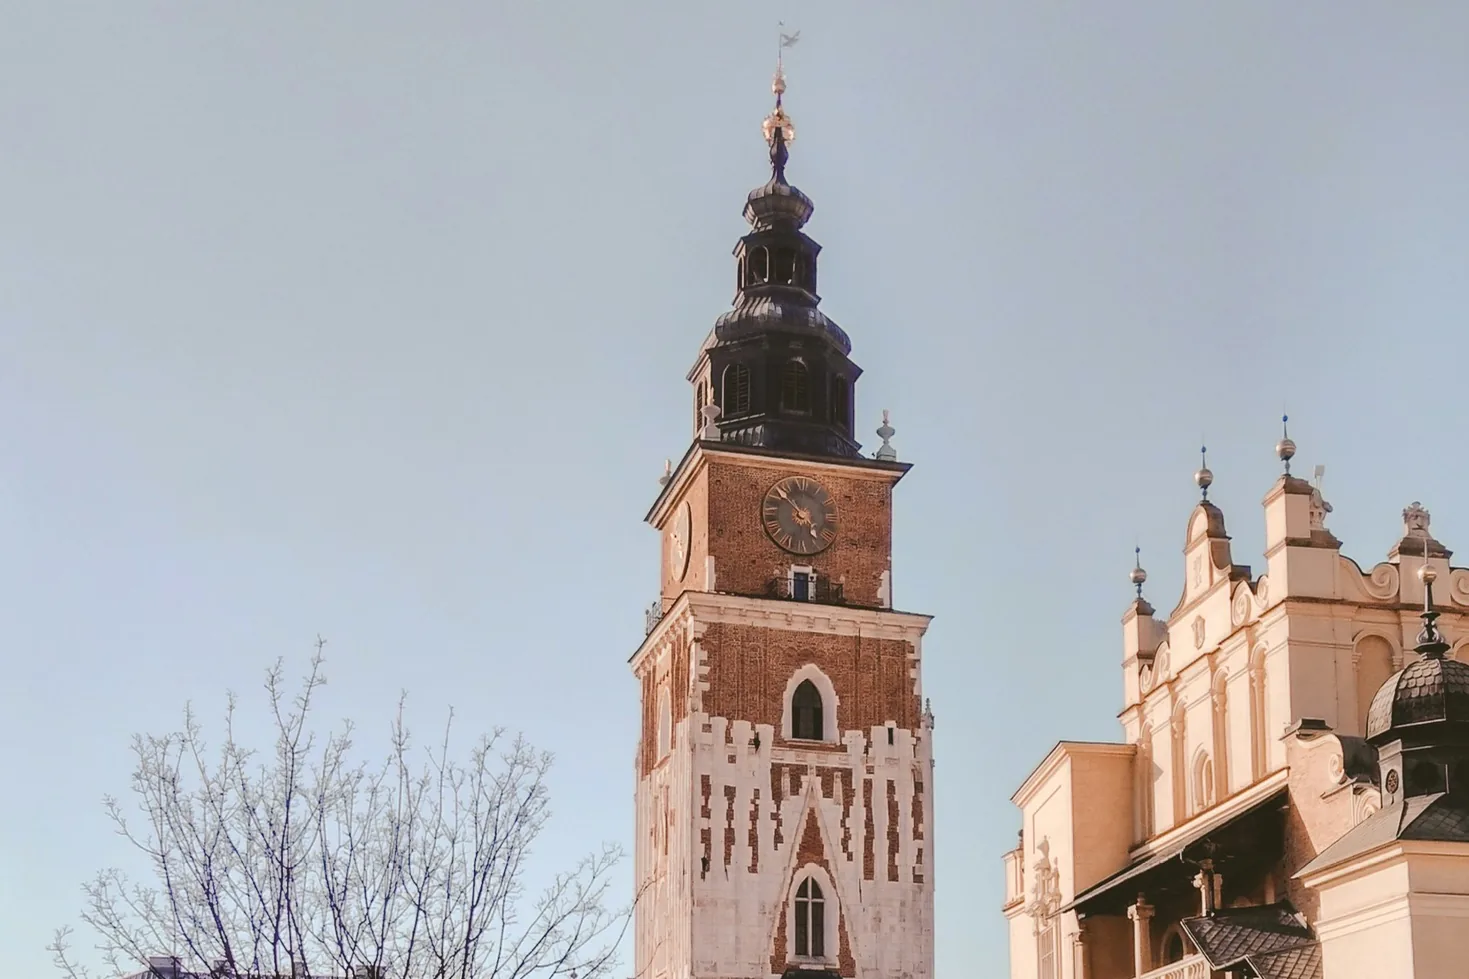
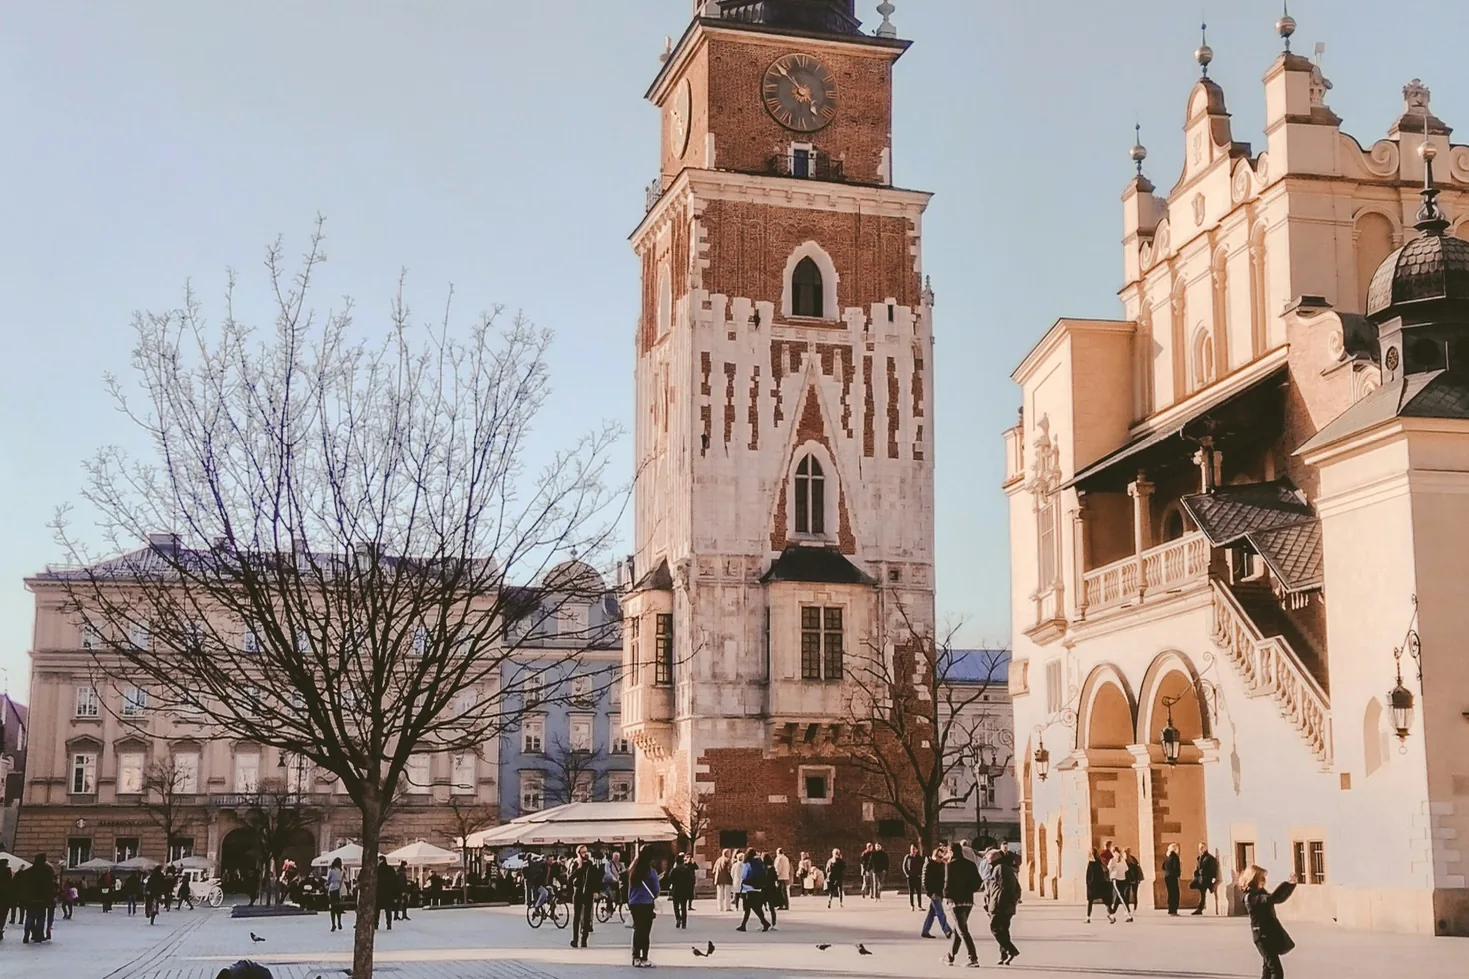
Add files via upload

diff --git a/css/style.css b/css/style.css
@@ -1,4 +1,4 @@
-/* wersja 34 */
+/* wersja 35 */
 /* =========================================================
    Kancelaria Adwokacka – adw. Agnieszka Mincer-Madejska
    Układ odwzorowany z projektu Figma (MacBook Pro 16": 1728 × 1117 px).
@@ -1601,4 +1601,30 @@ body { background: var(--tlo); color: var(--tekst); }
 @media (max-width: 1099px) {
   .kafel__przycisk { border-color: transparent; border-radius: 10px; box-shadow: 0 4px 20px rgba(0, 0, 0, 0.18); }
   .kafel__przycisk[aria-expanded="true"] { border-color: var(--braz); }
+}
+
+/* =====================================================================
+   v35
+   ===================================================================== */
+/* zdjęcie 1: wyższy kadr (tytuł na jasnej części wieży) i płynne przejście w zdjęcie 2:
+   Rynek gaśnie w tym samym pasie (890–1250 px), w którym pojawia się zdjęcie 2 */
+.tlo--rynek {
+  height: calc(1250 * var(--u));
+  -webkit-mask-image: linear-gradient(to bottom, #000 calc(100% - 360 * var(--u)), transparent 100%);
+          mask-image: linear-gradient(to bottom, #000 calc(100% - 360 * var(--u)), transparent 100%);
+}
+/* bez brązowych obrysów przycisków */
+.przycisk { border: 0; }
+.kafel__przycisk[aria-expanded="true"] { border-color: transparent; }
+/* kafle usług: tymczasowo przesłane zdjęcia (jak na kaflach bloga) */
+.kafel__przycisk { background-size: cover; background-position: center; -webkit-backdrop-filter: none; backdrop-filter: none; }
+.kafel:nth-child(3n+1) .kafel__przycisk { background-image: linear-gradient(to bottom, rgba(238,231,220,0) 35%, rgba(238,231,220,.85) 100%), url("../img/zdjecie-1-rynek.webp"); }
+.kafel:nth-child(3n+2) .kafel__przycisk { background-image: linear-gradient(to bottom, rgba(238,231,220,0) 35%, rgba(238,231,220,.85) 100%), url("../img/blog-waga.webp"); }
+.kafel:nth-child(3n)   .kafel__przycisk { background-image: linear-gradient(to bottom, rgba(238,231,220,0) 35%, rgba(238,231,220,.85) 100%), url("../img/zdjecie-3-dachy.webp"); }
+.kafel__przycisk:hover, .kafel__przycisk[aria-expanded="true"] { background-color: transparent; }
+.kafel__przycisk:hover { filter: brightness(1.04); }
+/* otwarte okienko usługi nad danymi kontaktowymi w prawym dolnym rogu */
+html.opis-otwarty main { z-index: 6; }
+@media (max-width: 1099px) {
+  .kafel__przycisk[aria-expanded="true"] { border-color: transparent; }
 }

diff --git a/js/main.js b/js/main.js
@@ -1,4 +1,4 @@
-/* wersja 33 */
+/* wersja 35 */
 /* =========================================================
    Kancelaria Adwokacka – skrypty strony
    1. Dane kontaktowe i gradient przy przewijaniu
@@ -40,13 +40,7 @@
     const gora3 = strona3.getBoundingClientRect().top;
     let k = ogranicz((gora3 - vh * 0.65) / (vh * 0.3));
     const g = ogranicz((gora3 - vh * 0.4) / (vh * 0.6));
-    // otwarte okienko usługi chowa dane kontaktowe tylko wtedy, gdy faktycznie na nie nachodzi
-    const okno = document.querySelector(".opis.otwarty");
-    if (okno && k > 0) {
-      const a = okno.getBoundingClientRect(), c = blokKontaktu.getBoundingClientRect();
-      if (a.left < c.right && a.right > c.left && a.top < c.bottom && a.bottom > c.top) k = 0;
-    }
-    const gradientKrycie = k === 0 && okno ? 0 : g;   // przy otwartym okienku w rogu chowamy też gradient z rozmyciem
+    const gradientKrycie = g;   // okienko usługi leży teraz nad danymi kontaktowymi – nic nie chowamy
     // krycie ustawiane wprost na elemencie (pewniejsze w Safari na iPadzie niż zmienne CSS)
     blokKontaktu.style.opacity = k.toFixed(3);
     blokKontaktu.style.visibility = k > 0.01 ? "visible" : "hidden";

diff --git a/en/blog/index.html b/en/blog/index.html
@@ -29,8 +29,8 @@
   <meta name="description" content="Blog of the Law Office of advocate Agnieszka Mincer-Madejska in Kraków: legitime, wills, inheritance, separation of property, acquisitive prescription, division of real property.">
   <link rel="preload" href="../../fonts/newsreader-latin-opsz-normal.woff2" as="font" type="font/woff2" crossorigin>
   <link rel="preload" href="../../fonts/inter-latin-wght-normal.woff2" as="font" type="font/woff2" crossorigin>
-  <link rel="stylesheet" href="../../css/style.css?v=34">
-  <script src="../../js/start.js?v=34"></script>
+  <link rel="stylesheet" href="../../css/style.css?v=35">
+  <script src="../../js/start.js?v=35"></script>
   <script type="application/ld+json">
 {
  "@context": "https://schema.org",
@@ -374,6 +374,6 @@
     <p class="linia">All rights reserved © <span class="rok">2026</span> Law Office of Advocate Agnieszka <span class="bez-lamania">Mincer-Madejska</span></p>
   </footer>
 
-  <script src="../../js/blog.js?v=34"></script>
+  <script src="../../js/blog.js?v=35"></script>
 </body>
 </html>

diff --git a/en/blog/jak-napisac-testament.html b/en/blog/jak-napisac-testament.html
@@ -29,8 +29,8 @@
   <meta name="description" content="A will is not just a formality – it is a conscious way of putting your affairs in order and giving your loved ones peace of mind after your death. Whether ">
   <link rel="preload" href="../../fonts/newsreader-latin-opsz-normal.woff2" as="font" type="font/woff2" crossorigin>
   <link rel="preload" href="../../fonts/inter-latin-wght-normal.woff2" as="font" type="font/woff2" crossorigin>
-  <link rel="stylesheet" href="../../css/style.css?v=34">
-  <script src="../../js/start.js?v=34"></script>
+  <link rel="stylesheet" href="../../css/style.css?v=35">
+  <script src="../../js/start.js?v=35"></script>
   <script type="application/ld+json">
 {
  "@context": "https://schema.org",
@@ -384,6 +384,6 @@
     <p class="linia">All rights reserved © <span class="rok">2026</span> Law Office of Advocate Agnieszka <span class="bez-lamania">Mincer-Madejska</span></p>
   </footer>
 
-  <script src="../../js/blog.js?v=34"></script>
+  <script src="../../js/blog.js?v=35"></script>
 </body>
 </html>

diff --git a/en/blog/testament-w-polskim-prawie.html b/en/blog/testament-w-polskim-prawie.html
@@ -29,8 +29,8 @@
   <meta name="description" content="Making a will is one of the most important legal acts, allowing inheritance matters to be arranged according to the testator’s wishes. Polish law provides ">
   <link rel="preload" href="../../fonts/newsreader-latin-opsz-normal.woff2" as="font" type="font/woff2" crossorigin>
   <link rel="preload" href="../../fonts/inter-latin-wght-normal.woff2" as="font" type="font/woff2" crossorigin>
-  <link rel="stylesheet" href="../../css/style.css?v=34">
-  <script src="../../js/start.js?v=34"></script>
+  <link rel="stylesheet" href="../../css/style.css?v=35">
+  <script src="../../js/start.js?v=35"></script>
   <script type="application/ld+json">
 {
  "@context": "https://schema.org",
@@ -384,6 +384,6 @@
     <p class="linia">All rights reserved © <span class="rok">2026</span> Law Office of Advocate Agnieszka <span class="bez-lamania">Mincer-Madejska</span></p>
   </footer>
 
-  <script src="../../js/blog.js?v=34"></script>
+  <script src="../../js/blog.js?v=35"></script>
 </body>
 </html>

diff --git a/en/blog/nabycie-spadku.html b/en/blog/nabycie-spadku.html
@@ -29,8 +29,8 @@
   <meta name="description" content="Acquiring an inheritance after the death of a family member is a process that may seem complicated, especially for people dealing with inheritance matters ">
   <link rel="preload" href="../../fonts/newsreader-latin-opsz-normal.woff2" as="font" type="font/woff2" crossorigin>
   <link rel="preload" href="../../fonts/inter-latin-wght-normal.woff2" as="font" type="font/woff2" crossorigin>
-  <link rel="stylesheet" href="../../css/style.css?v=34">
-  <script src="../../js/start.js?v=34"></script>
+  <link rel="stylesheet" href="../../css/style.css?v=35">
+  <script src="../../js/start.js?v=35"></script>
   <script type="application/ld+json">
 {
  "@context": "https://schema.org",
@@ -381,6 +381,6 @@
     <p class="linia">All rights reserved © <span class="rok">2026</span> Law Office of Advocate Agnieszka <span class="bez-lamania">Mincer-Madejska</span></p>
   </footer>
 
-  <script src="../../js/blog.js?v=34"></script>
+  <script src="../../js/blog.js?v=35"></script>
 </body>
 </html>

diff --git a/en/blog/podzial-nieruchomosci-po-spadku-lub-rozwodzie.html b/en/blog/podzial-nieruchomosci-po-spadku-lub-rozwodzie.html
@@ -29,8 +29,8 @@
   <meta name="description" content="Dividing real property after it has been inherited by several people or after a divorce is a common problem faced by law office clients. Choosing the right">
   <link rel="preload" href="../../fonts/newsreader-latin-opsz-normal.woff2" as="font" type="font/woff2" crossorigin>
   <link rel="preload" href="../../fonts/inter-latin-wght-normal.woff2" as="font" type="font/woff2" crossorigin>
-  <link rel="stylesheet" href="../../css/style.css?v=34">
-  <script src="../../js/start.js?v=34"></script>
+  <link rel="stylesheet" href="../../css/style.css?v=35">
+  <script src="../../js/start.js?v=35"></script>
   <script type="application/ld+json">
 {
  "@context": "https://schema.org",
@@ -410,6 +410,6 @@
     <p class="linia">All rights reserved © <span class="rok">2026</span> Law Office of Advocate Agnieszka <span class="bez-lamania">Mincer-Madejska</span></p>
   </footer>
 
-  <script src="../../js/blog.js?v=34"></script>
+  <script src="../../js/blog.js?v=35"></script>
 </body>
 </html>

diff --git a/en/blog/rozdzielnosc-majatkowa.html b/en/blog/rozdzielnosc-majatkowa.html
@@ -29,8 +29,8 @@
   <meta name="description" content="Separation of property is a legal mechanism that allows spouses to keep their personal assets separate. It can be used before marriage, during the marriage">
   <link rel="preload" href="../../fonts/newsreader-latin-opsz-normal.woff2" as="font" type="font/woff2" crossorigin>
   <link rel="preload" href="../../fonts/inter-latin-wght-normal.woff2" as="font" type="font/woff2" crossorigin>
-  <link rel="stylesheet" href="../../css/style.css?v=34">
-  <script src="../../js/start.js?v=34"></script>
+  <link rel="stylesheet" href="../../css/style.css?v=35">
+  <script src="../../js/start.js?v=35"></script>
   <script type="application/ld+json">
 {
  "@context": "https://schema.org",
@@ -380,6 +380,6 @@
     <p class="linia">All rights reserved © <span class="rok">2026</span> Law Office of Advocate Agnieszka <span class="bez-lamania">Mincer-Madejska</span></p>
   </footer>
 
-  <script src="../../js/blog.js?v=34"></script>
+  <script src="../../js/blog.js?v=35"></script>
 </body>
 </html>

diff --git a/en/blog/sprawy-spadkowe-na-biezaco.html b/en/blog/sprawy-spadkowe-na-biezaco.html
@@ -29,8 +29,8 @@
   <meta name="description" content="The death of a loved one is undoubtedly a difficult time, full of emotions and challenges. Apart from grief, there are also legal issues that can be compli">
   <link rel="preload" href="../../fonts/newsreader-latin-opsz-normal.woff2" as="font" type="font/woff2" crossorigin>
   <link rel="preload" href="../../fonts/inter-latin-wght-normal.woff2" as="font" type="font/woff2" crossorigin>
-  <link rel="stylesheet" href="../../css/style.css?v=34">
-  <script src="../../js/start.js?v=34"></script>
+  <link rel="stylesheet" href="../../css/style.css?v=35">
+  <script src="../../js/start.js?v=35"></script>
   <script type="application/ld+json">
 {
  "@context": "https://schema.org",
@@ -362,6 +362,6 @@
     <p class="linia">All rights reserved © <span class="rok">2026</span> Law Office of Advocate Agnieszka <span class="bez-lamania">Mincer-Madejska</span></p>
   </footer>
 
-  <script src="../../js/blog.js?v=34"></script>
+  <script src="../../js/blog.js?v=35"></script>
 </body>
 </html>

diff --git a/en/blog/zachowek-kiedy-przysluguje.html b/en/blog/zachowek-kiedy-przysluguje.html
@@ -29,8 +29,8 @@
   <meta name="description" content="This post continues our earlier article on the legitime (zachowek) , in which we explained who is, as a rule, entitled to this claim and how it is calculat">
   <link rel="preload" href="../../fonts/newsreader-latin-opsz-normal.woff2" as="font" type="font/woff2" crossorigin>
   <link rel="preload" href="../../fonts/inter-latin-wght-normal.woff2" as="font" type="font/woff2" crossorigin>
-  <link rel="stylesheet" href="../../css/style.css?v=34">
-  <script src="../../js/start.js?v=34"></script>
+  <link rel="stylesheet" href="../../css/style.css?v=35">
+  <script src="../../js/start.js?v=35"></script>
   <script type="application/ld+json">
 {
  "@context": "https://schema.org",
@@ -410,6 +410,6 @@
     <p class="linia">All rights reserved © <span class="rok">2026</span> Law Office of Advocate Agnieszka <span class="bez-lamania">Mincer-Madejska</span></p>
   </footer>
 
-  <script src="../../js/blog.js?v=34"></script>
+  <script src="../../js/blog.js?v=35"></script>
 </body>
 </html>

diff --git a/en/blog/zasiedzenie-nieruchomosci.html b/en/blog/zasiedzenie-nieruchomosci.html
@@ -29,8 +29,8 @@
   <meta name="description" content="Acquisitive prescription (zasiedzenie) is a civil law mechanism that makes it possible to acquire ownership of real property, or a share in it, once certai">
   <link rel="preload" href="../../fonts/newsreader-latin-opsz-normal.woff2" as="font" type="font/woff2" crossorigin>
   <link rel="preload" href="../../fonts/inter-latin-wght-normal.woff2" as="font" type="font/woff2" crossorigin>
-  <link rel="stylesheet" href="../../css/style.css?v=34">
-  <script src="../../js/start.js?v=34"></script>
+  <link rel="stylesheet" href="../../css/style.css?v=35">
+  <script src="../../js/start.js?v=35"></script>
   <script type="application/ld+json">
 {
  "@context": "https://schema.org",
@@ -405,6 +405,6 @@
     <p class="linia">All rights reserved © <span class="rok">2026</span> Law Office of Advocate Agnieszka <span class="bez-lamania">Mincer-Madejska</span></p>
   </footer>
 
-  <script src="../../js/blog.js?v=34"></script>
+  <script src="../../js/blog.js?v=35"></script>
 </body>
 </html>

diff --git a/blog/sprawy-spadkowe-na-biezaco.html b/blog/sprawy-spadkowe-na-biezaco.html
@@ -29,8 +29,8 @@
   <meta name="description" content="Śmierć bliskiej osoby to niewątpliwie trudny czas, pełen emocji i wielu wyzwań. Oprócz żałoby pojawiają się też kwestie prawne, które mogą być skomplikowan">
   <link rel="preload" href="../fonts/newsreader-latin-opsz-normal.woff2" as="font" type="font/woff2" crossorigin>
   <link rel="preload" href="../fonts/inter-latin-wght-normal.woff2" as="font" type="font/woff2" crossorigin>
-  <link rel="stylesheet" href="../css/style.css?v=34">
-  <script src="../js/start.js?v=34"></script>
+  <link rel="stylesheet" href="../css/style.css?v=35">
+  <script src="../js/start.js?v=35"></script>
   <script type="application/ld+json">
 {
  "@context": "https://schema.org",
@@ -361,6 +361,6 @@
     <p class="linia">Wszystkie prawa © <span class="rok">2026</span> Kancelaria Adwokacka Adwokat Agnieszka <span class="bez-lamania">Mincer-Madejska</span></p>
   </footer>
 
-  <script src="../js/blog.js?v=34"></script>
+  <script src="../js/blog.js?v=35"></script>
 </body>
 </html>
